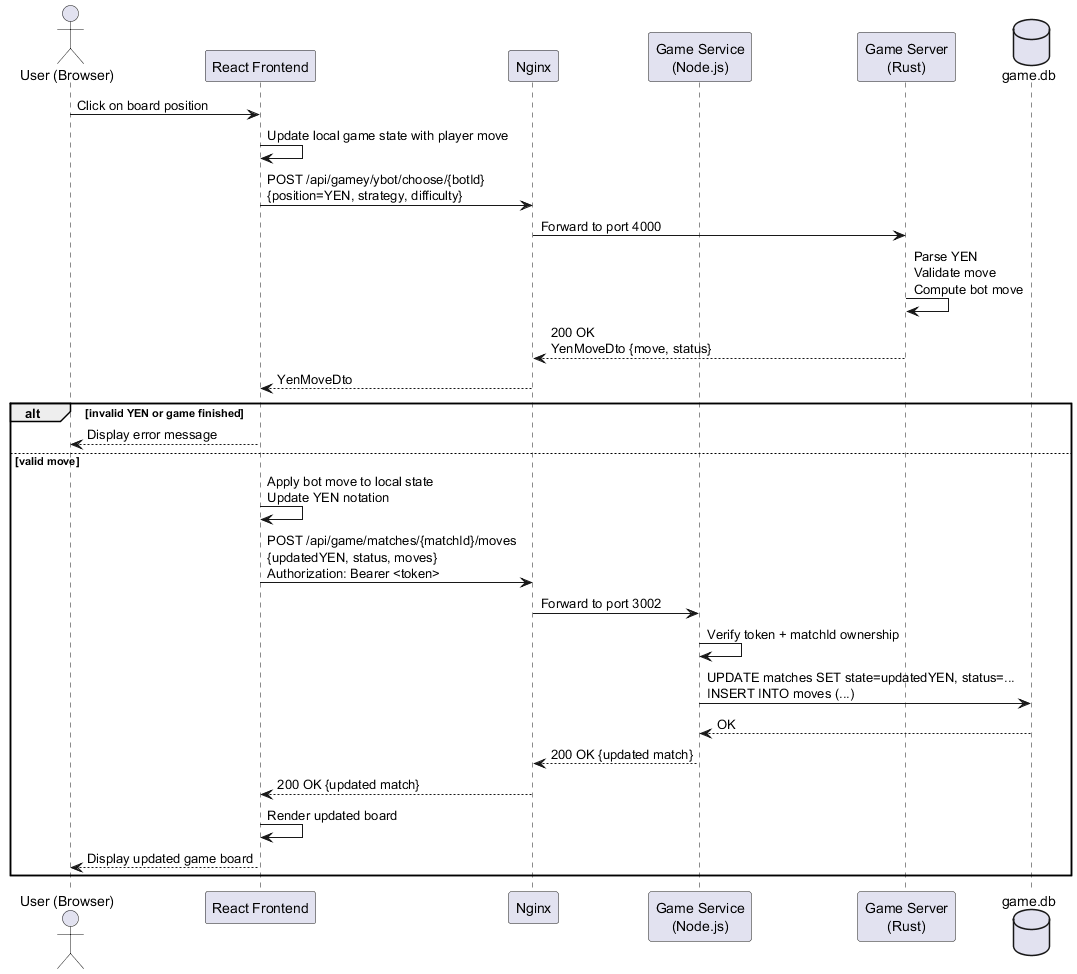
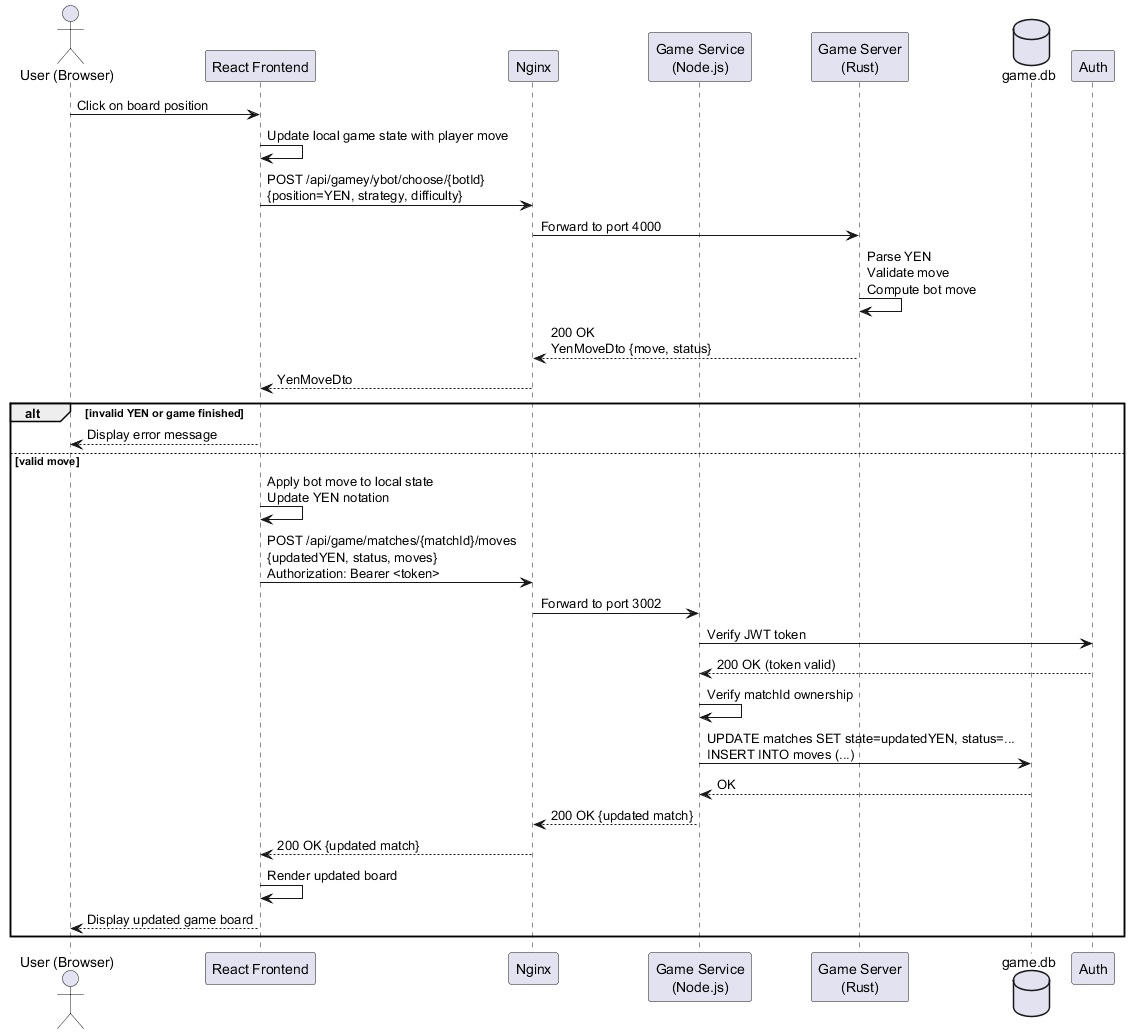
Updates

diff --git a/index.html b/index.html
@@ -1200,6 +1200,9 @@ Understanding them helps ensure that the architecture is feasible, maintainable,
 <li>
 <p><code>POST /api/auth/refresh</code> - JWT token refresh</p>
 </li>
+<li>
+<p><code>POST /api/auth/verify</code> - JWT verification endpoint for internal service-to-service authorization checks (must not be exposed publicly)</p>
+</li>
 </ul>
 </div>
 <div class="paragraph">
@@ -2747,7 +2750,7 @@ The frontend makes API calls through Nginx, which routes authentication requests
 <h3 id="_runtime_scenario_2_authorization_check">6.2. Runtime Scenario 2: Authorization Check</h3>
 <div class="paragraph">
 <p>When a user requests protected resources, the React Frontend includes the JWT token in the request headers.
-Nginx forwards the request to the appropriate service, which verifies the token internally or delegates to Auth Service.</p>
+Nginx forwards the request to the appropriate service, which delegates JWT verification to Auth Service through an internal call to <code>/api/auth/verify</code>.</p>
 </div>
 <div class="imageblock">
 <div class="content">
@@ -2770,6 +2773,34 @@ Nginx forwards the request to the appropriate service, which verifies the token 
 </li>
 <li>
 <p>Nginx simply routes requests without authentication logic</p>
+</li>
+</ul>
+</div>
+<div class="paragraph">
+<p>Verify endpoint contract used by internal services:</p>
+</div>
+<div class="ulist">
+<ul>
+<li>
+<p>Method and path: <code>POST /api/auth/verify</code></p>
+</li>
+<li>
+<p>Internal URL (Docker network): <code>AUTH_INTERNAL_VERIFY_URL=http://auth:3001/api/auth/verify</code></p>
+</li>
+<li>
+<p>Token input: preferred <code>Authorization: Bearer &lt;accessToken&gt;</code> (compatible fallback: JSON body <code>{ "token": "&lt;accessToken&gt;" }</code>)</p>
+</li>
+<li>
+<p>Success response (<code>200</code>): <code>{ "valid": true, "claims": { "sub": "&lt;userId&gt;", "username": "&lt;username&gt;", "tokenType": "access", "iat": &lt;epoch&gt;, "exp": &lt;epoch&gt; } }</code></p>
+</li>
+<li>
+<p>Error response (<code>401</code>): <code>{ "valid": false }</code> for missing, malformed, invalid, expired, or non-access tokens</p>
+</li>
+<li>
+<p>Security boundary: <code>/api/auth/verify</code> must not be exposed publicly through Nginx and should be consumed only over internal service-to-service network calls</p>
+</li>
+<li>
+<p>Client resilience policy for internal callers: use short timeouts (<code>500ms</code> to <code>1s</code>) and <code>0-1</code> retries to avoid cascading failures</p>
 </li>
 </ul>
 </div>
@@ -2816,7 +2847,7 @@ The frontend sends the current game state to the Game Server for bot move comput
 </div>
 <div class="imageblock">
 <div class="content">
-<img src="./images/runtime-human-move.png" alt="runtime human move" width="1077" height="974">
+<img src="./images/runtime-human-move.png" alt="runtime human move" width="1130" height="1034">
 </div>
 </div>
 <div class="paragraph">
@@ -3075,7 +3106,7 @@ Statistics are served by the Game Service from <code>game.db</code>.</p>
 <div class="ulist">
 <ul>
 <li>
-<p><code>/api/auth/*</code> → Auth Service (port 3001)</p>
+<p><code>/api/auth/*</code> → Auth Service (port 3001), except <code>/api/auth/verify</code> (blocked externally with 403)</p>
 </li>
 <li>
 <p><code>/api/users/*</code> → Users Service (port 3000)</p>
@@ -3145,6 +3176,22 @@ Statistics are served by the Game Service from <code>game.db</code>.</p>
 <p>React updates the UI with the new board state</p>
 </li>
 </ol>
+</div>
+<div class="paragraph">
+<p><strong>Internal Auth verification call (service-to-service only):</strong></p>
+</div>
+<div class="ulist">
+<ul>
+<li>
+<p>Internal URL env var: <code>AUTH_INTERNAL_VERIFY_URL=http://auth:3001/api/auth/verify</code></p>
+</li>
+<li>
+<p>Recommended timeout in callers: <code>500ms</code> to <code>1s</code></p>
+</li>
+<li>
+<p>Recommended retries: <code>0-1</code> (avoid retry storms)</p>
+</li>
+</ul>
 </div>
 <div class="paragraph">
 <p><strong>Data Storage and Fault Isolation:</strong></p>
@@ -3360,7 +3407,7 @@ Nginx acts as the single public entry point, isolating backend services from dir
 </li>
 <li>
 <p><strong>Authentication and Authorization:</strong>
-Only authenticated users can access certain features, such as creating matches or viewing their profile. The Users Service handles all authentication using JWT tokens.</p>
+Only authenticated users can access certain features, such as creating matches or viewing their profile. The Auth Service handles JWT authentication and exposes token verification for internal service-to-service authorization checks.</p>
 </li>
 <li>
 <p><strong>Password Protection:</strong>
@@ -3368,7 +3415,7 @@ Passwords are never stored in plain text. Instead, they are hashed and salted be
 </li>
 <li>
 <p><strong>Data Protection:</strong>
-We only store the minimum amount of user information needed for the system to work. The database is accessible only through the Users Service, ensuring data access control.</p>
+We only store the minimum amount of user information needed for the system to work. Data is split by domain with strict ownership: <code>auth.db</code> is accessible only through Auth Service, <code>users.db</code> only through Users Service, and <code>game.db</code> only through Game Service.</p>
 </li>
 <li>
 <p><strong>CORS and Rate Limiting:</strong>
@@ -3392,7 +3439,10 @@ application, we split the project into several smaller, independent services:</p
 <p><strong>Nginx:</strong> The API Gateway and reverse proxy that routes requests to appropriate backend services. It handles CORS, rate limiting, and serves the React frontend static files.</p>
 </li>
 <li>
-<p><strong>Users Service (users/):</strong> Node.js + Express + TypeScript service that manages user registration, authentication, match persistence, and statistics. It is the single point of access to the SQLite database.</p>
+<p><strong>Auth Service (auth/):</strong> Node.js + Express + TypeScript service that manages registration, authentication (JWT access/refresh lifecycle), and internal token verification. It is the single point of access to <code>auth.db</code>.</p>
+</li>
+<li>
+<p><strong>Users Service (users/):</strong> Node.js + Express + TypeScript service that manages user profiles, match persistence, and statistics. It is the single point of access to <code>users.db</code>.</p>
 </li>
 <li>
 <p><strong>Game Server (gamey/):</strong> Rust service that implements the Y‑game engine and bot logic. It is stateless and focuses purely on game rules, move validation, and bot strategies.</p>
@@ -3464,27 +3514,26 @@ This helps detect errors early and keeps all services aligned.</p>
 <div class="sect2">
 <h3 id="_persistence_layer">8.6. Persistence Layer</h3>
 <div class="paragraph">
-<p>The application relies on a SQL database (SQLite - relational database) that will
-manage the data of the application related to user accounts, match history, and statistics.</p>
+<p>The application relies on SQL databases (SQLite - relational database) split by domain: <code>auth.db</code>, <code>users.db</code>, and <code>game.db</code>.</p>
 </div>
 <div class="paragraph">
-<p>The database is accessed exclusively by the Users Service. This design decision ensures:</p>
+<p>Each database is accessed exclusively by its owning service. This design decision ensures:</p>
 </div>
 <div class="ulist">
 <ul>
 <li>
-<p><strong>Data Consistency:</strong> Only one service manages database transactions</p>
+<p><strong>Data Consistency:</strong> each service manages transactions in its own domain</p>
 </li>
 <li>
-<p><strong>Security:</strong> Other services cannot directly access or modify the database</p>
+<p><strong>Security:</strong> other services cannot directly access or modify another service&#8217;s database</p>
 </li>
 <li>
-<p><strong>Separation of Concerns:</strong> Game Server remains stateless and focused on game logic</p>
+<p><strong>Separation of Concerns:</strong> Auth handles credentials/tokens, Users handles profiles/statistics, and Game handles match state</p>
 </li>
 </ul>
 </div>
 <div class="paragraph">
-<p>Game sessions are computed in memory by the Rust Game Server, which is stateless. When a match needs to be persisted (for history or resuming later), the Users Service stores the game state in YEN notation in the SQLite database.</p>
+<p>Game sessions are computed in memory by the Rust Game Server and persisted to <code>game.db</code> when needed (history/resume). Credentials and token metadata remain exclusive to Auth Service in <code>auth.db</code>.</p>
 </div>
 <div class="paragraph">
 <p>If additional persistence requirements arise in the future (for example, caching or match replay functionality), the system can be extended without affecting the existing services thanks to the microservice-based design.</p>
@@ -4277,7 +4326,7 @@ Each database is mounted as an independent Docker volume, and no service has acc
 <div id="footer">
 <div id="footer-text">
 Version 8.2 EN<br>
-Last updated 2026-01-27 09:51:23 +0100
+Last updated 2026-02-22 22:23:46 +0100
 </div>
 </div>
 </body>
